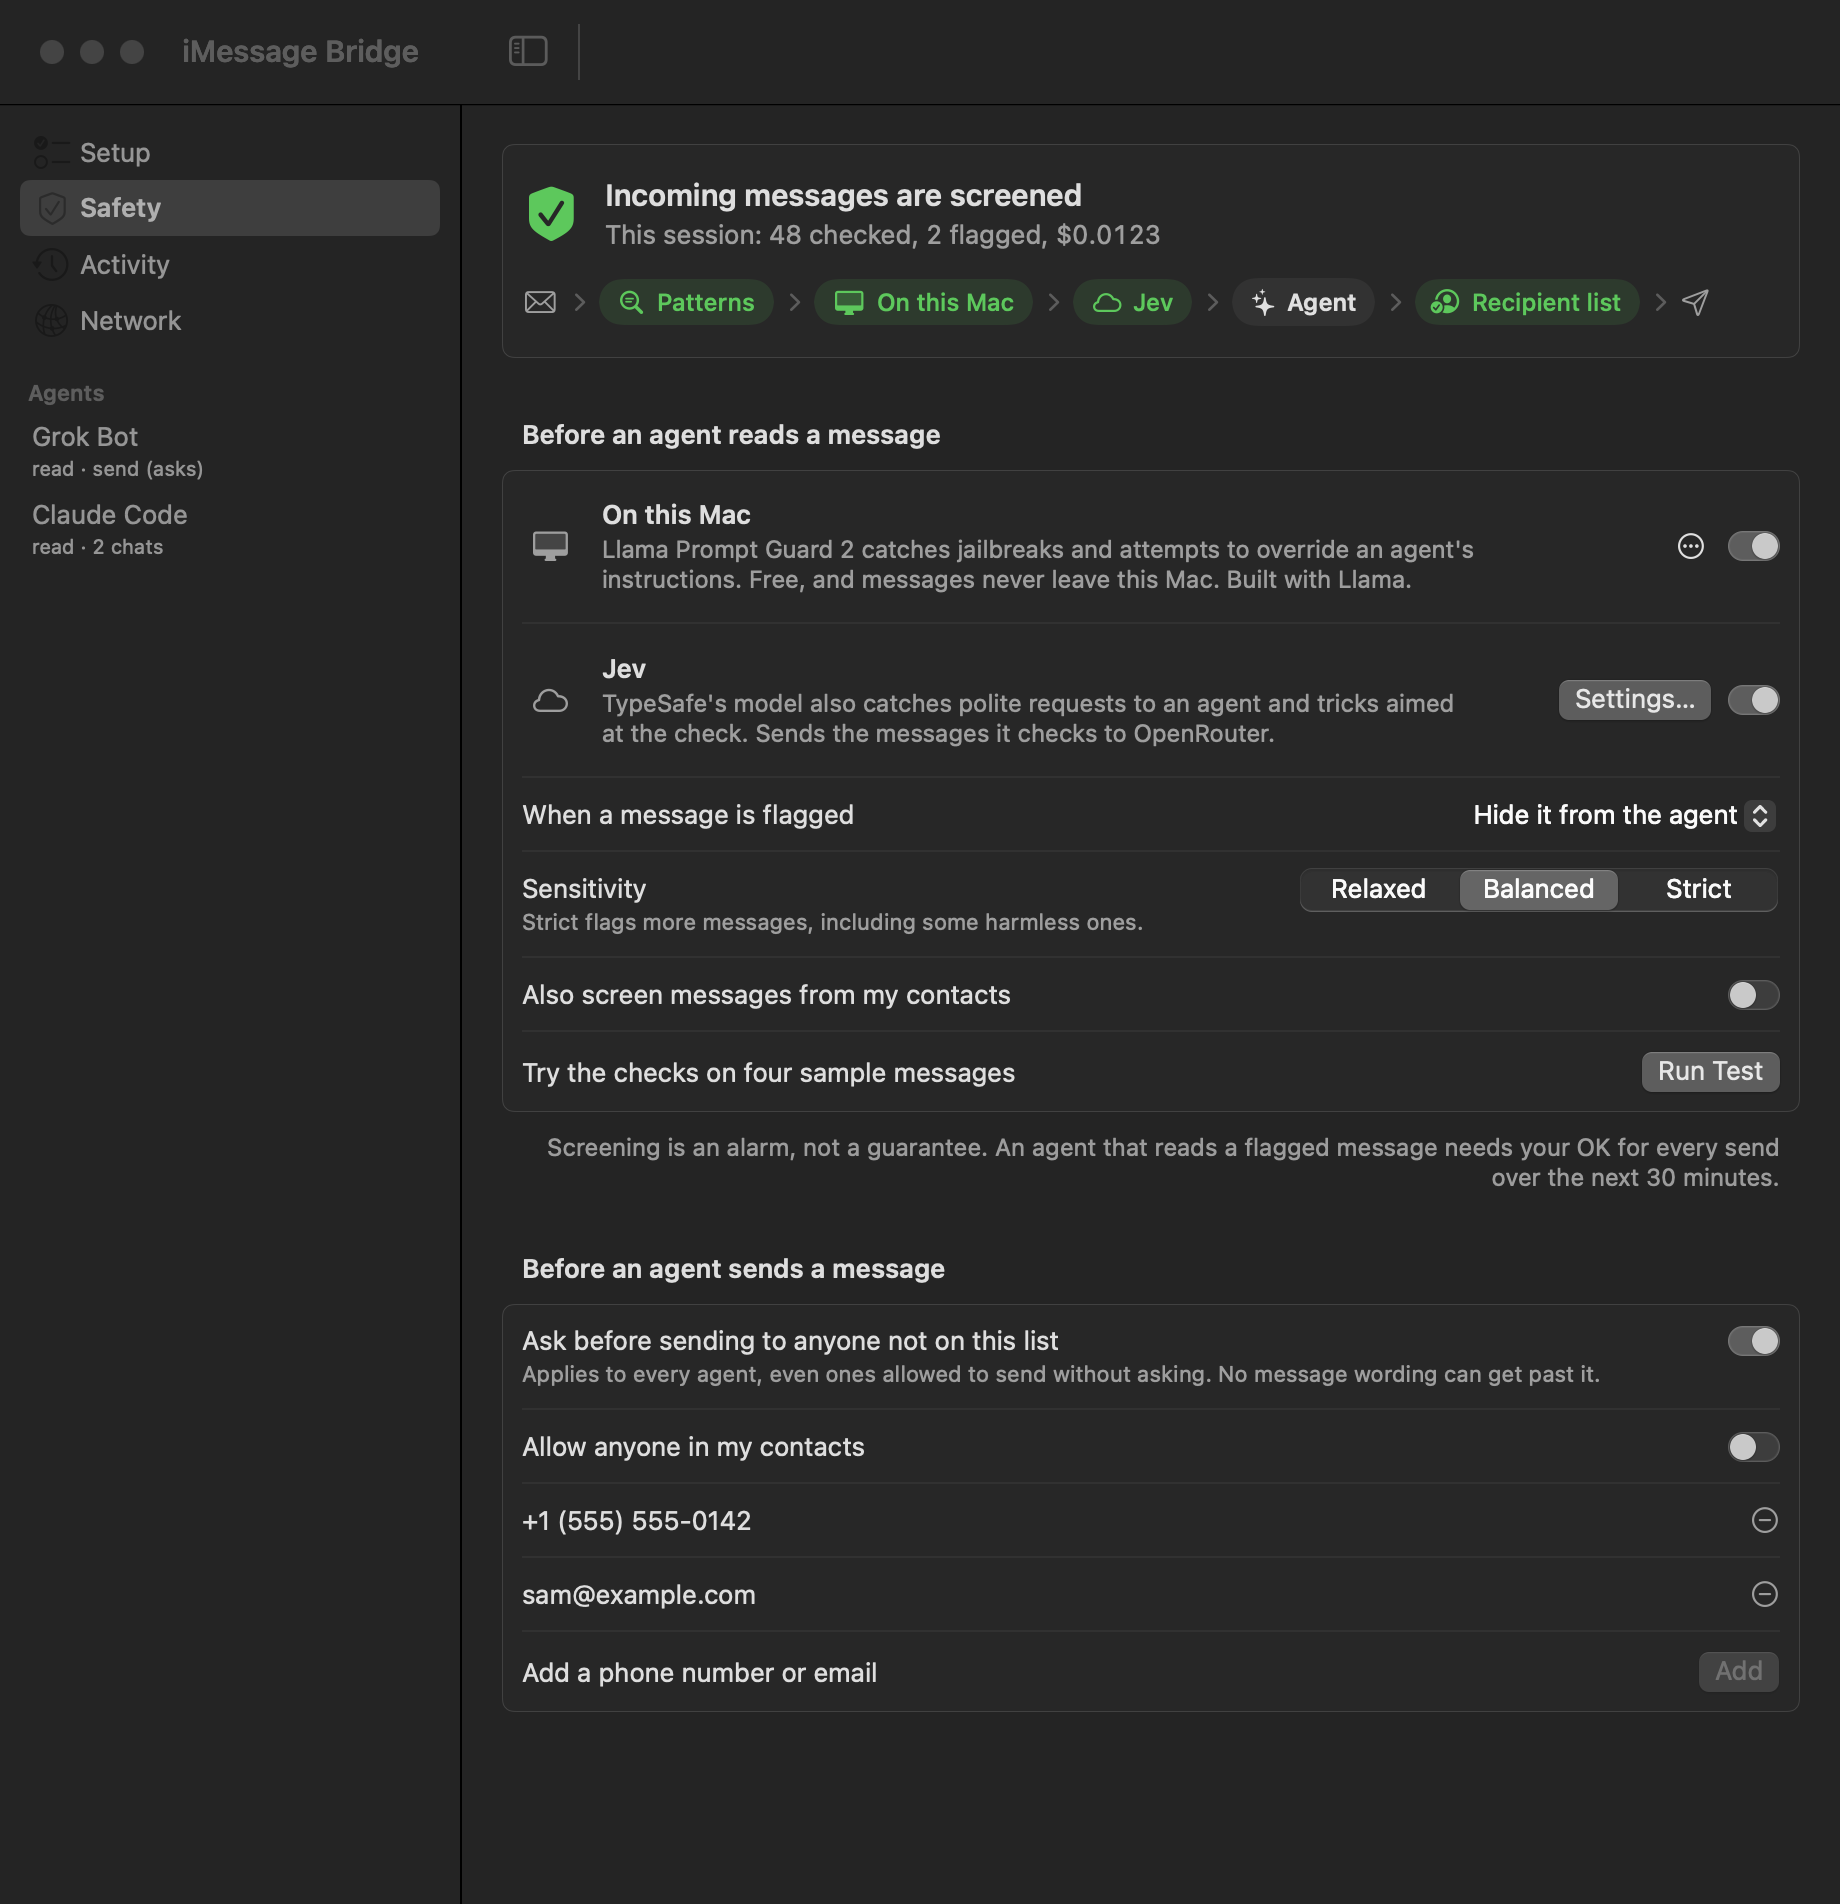
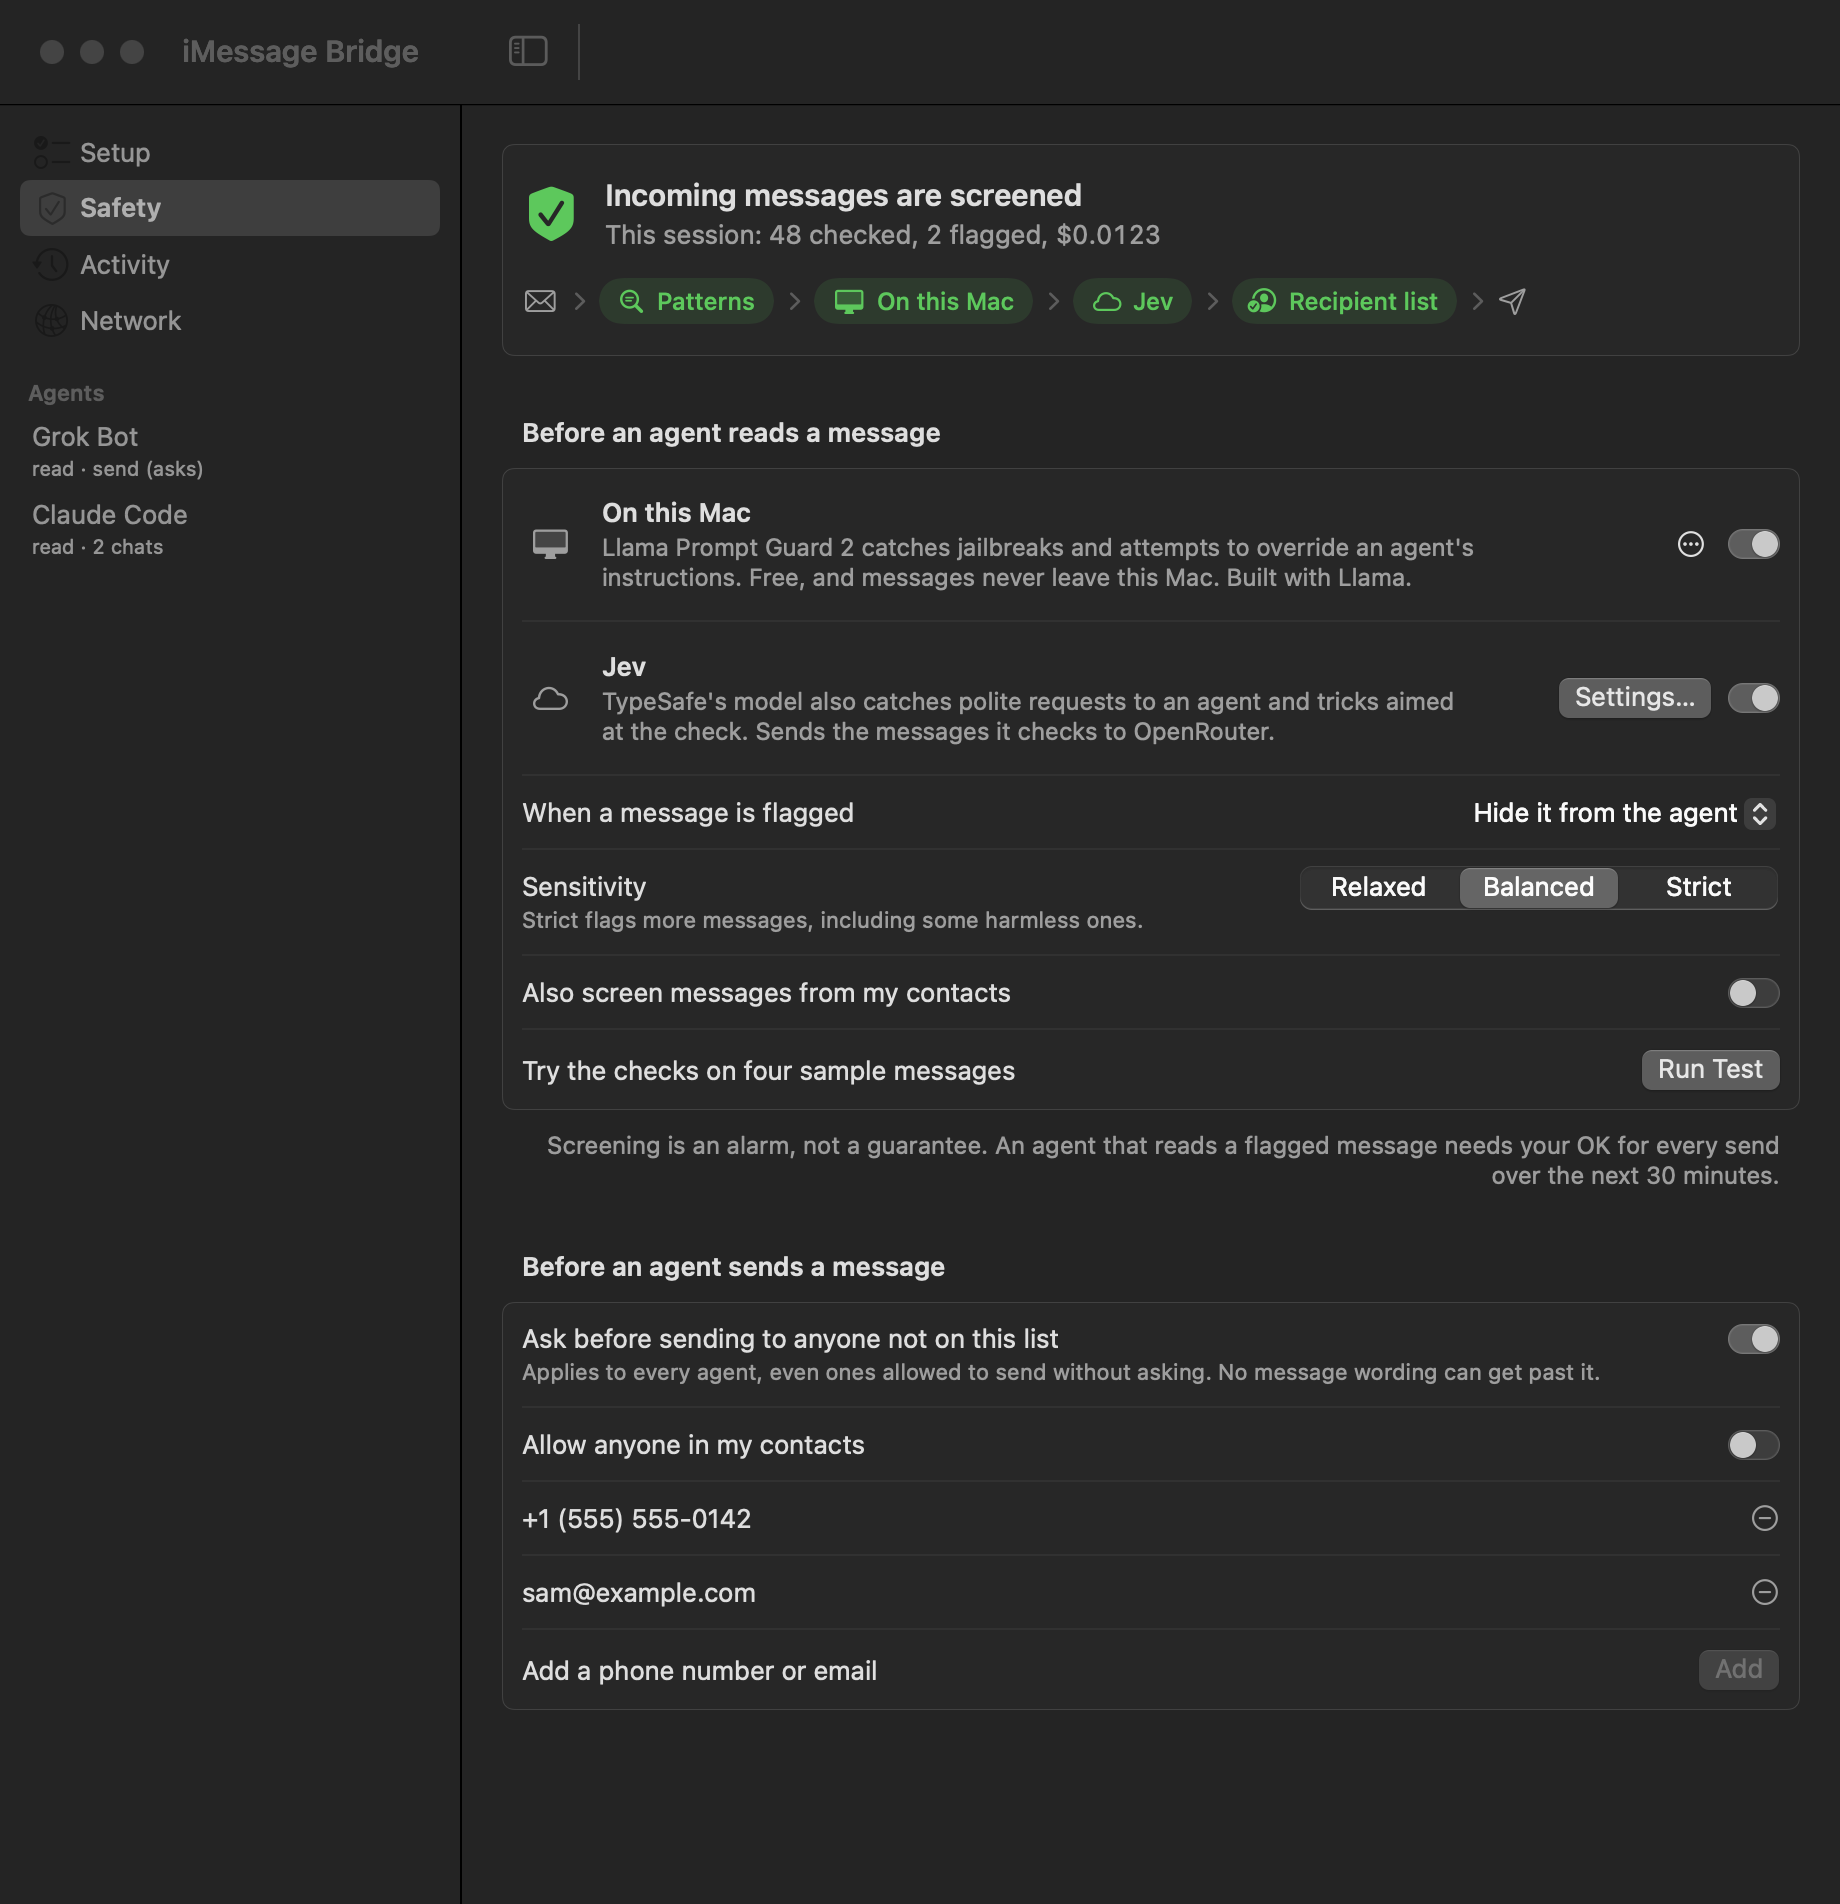
Remove the agent step from the Safety page's message path
It isn't a check and can't be turned off, but as a gray chip next to green
ones it read as a check that was off.

diff --git a/Sources/IMessageBridgeApp/SafetyView.swift b/Sources/IMessageBridgeApp/SafetyView.swift
@@ -74,7 +74,6 @@ struct SafetyView: View {
                     .init(label: "Patterns", symbol: "text.magnifyingglass", on: screening),
                     .init(label: "On this Mac", symbol: "desktopcomputer", on: localActive),
                     .init(label: "Jev", symbol: "cloud", on: jevActive),
-                    .init(label: "Agent", symbol: "sparkles", on: true, isActor: true),
                     .init(label: "Recipient list", symbol: "person.crop.circle.badge.checkmark",
                           on: state.settings.confirmUnknownRecipients),
                 ])
@@ -269,15 +268,14 @@ struct CheckRow<Control: View>: View {
     }
 }
 
-/// The path a message takes: the checks before the agent reads it, the agent,
-/// then the recipient check before anything is sent. Steps that are off are dimmed.
+/// The path a message takes: the checks before an agent reads it, then the
+/// recipient check before anything is sent. Checks that are off are dimmed.
 struct FlowStrip: View {
     struct Step: Identifiable {
         var id: String { label }
         let label: String
         let symbol: String
         let on: Bool
-        var isActor = false
     }
 
     let steps: [Step]
@@ -288,7 +286,7 @@ struct FlowStrip: View {
             row(showLabels: false)
         }
         .accessibilityElement(children: .ignore)
-        .accessibilityLabel(steps.map { "\($0.label) \($0.isActor ? "" : $0.on ? "on" : "off")" }.joined(separator: ", "))
+        .accessibilityLabel(steps.map { "\($0.label) \($0.on ? "on" : "off")" }.joined(separator: ", "))
     }
 
     private func row(showLabels: Bool) -> some View {
@@ -317,17 +315,17 @@ struct FlowStrip: View {
             Image(systemName: step.symbol)
             if showLabel { Text(step.label) }
         }
-        .font(.callout.weight(step.isActor ? .semibold : .medium))
+        .font(.callout.weight(.medium))
         .padding(.horizontal, 9)
         .padding(.vertical, 4)
-        .foregroundStyle(!step.on ? AnyShapeStyle(.tertiary) : step.isActor ? AnyShapeStyle(.primary) : AnyShapeStyle(Color.green))
+        .foregroundStyle(step.on ? AnyShapeStyle(Color.green) : AnyShapeStyle(.tertiary))
         .background {
-            Capsule().fill(step.on && !step.isActor ? AnyShapeStyle(Color.green.opacity(0.12)) : AnyShapeStyle(.quaternary.opacity(0.5)))
+            Capsule().fill(step.on ? AnyShapeStyle(Color.green.opacity(0.12)) : AnyShapeStyle(.quaternary.opacity(0.5)))
         }
         .overlay {
             if !step.on { Capsule().strokeBorder(.tertiary, style: StrokeStyle(lineWidth: 1, dash: [3, 2])) }
         }
-        .help(step.isActor ? "The agent reads the message" : "\(step.label): \(step.on ? "on" : "off")")
+        .help("\(step.label): \(step.on ? "on" : "off")")
     }
 }
 

diff --git a/.interface-design/system.md b/.interface-design/system.md
@@ -67,7 +67,8 @@ A horizontal picture of the path a message takes: endpoint icon → chips → en
 - Chips are capsules, 9pt horizontal / 4pt vertical padding, `.callout.weight(.medium)`.
 - On: green text, `Color.green.opacity(0.12)` fill.
 - Off: tertiary text, faint fill, 1pt dashed tertiary border.
-- The actor (the agent) is neutral: primary text, semibold, no status color.
+- Only checks get chips. Don't add non-checks (e.g. the agent): a neutral chip
+  next to green ones reads as "off".
 - Separators: `chevron.right`, `.caption2.weight(.semibold)`, tertiary.
 - `ViewThatFits`: labels + icons, then icons only (labels move to `.help`).
 - One combined accessibility label listing every step and its state.

diff --git a/README.md b/README.md
@@ -144,7 +144,8 @@ Agents only see the tools they're allowed to use.
 ### Safety settings
 
 The **Safety** page follows the path a message takes. The card at the top shows that path
-(the checks, the agent, the recipient list) with each step lit when it's on, and how many
+(the checks before an agent reads a message, then the recipient list) with each check lit
+when it's on, and how many
 messages were checked and flagged this session.
 
 **Before an agent reads a message**, incoming messages are screened for prompt injection,
